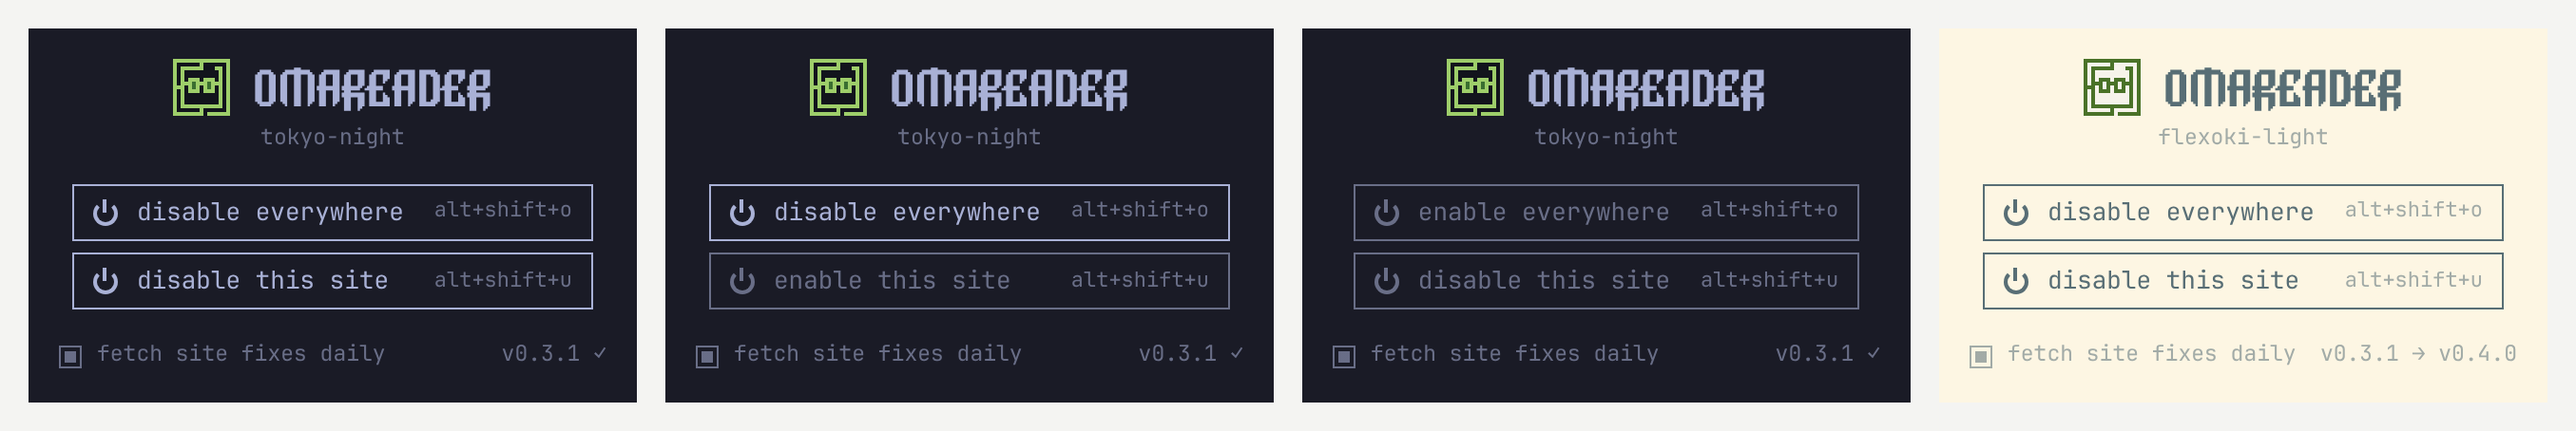
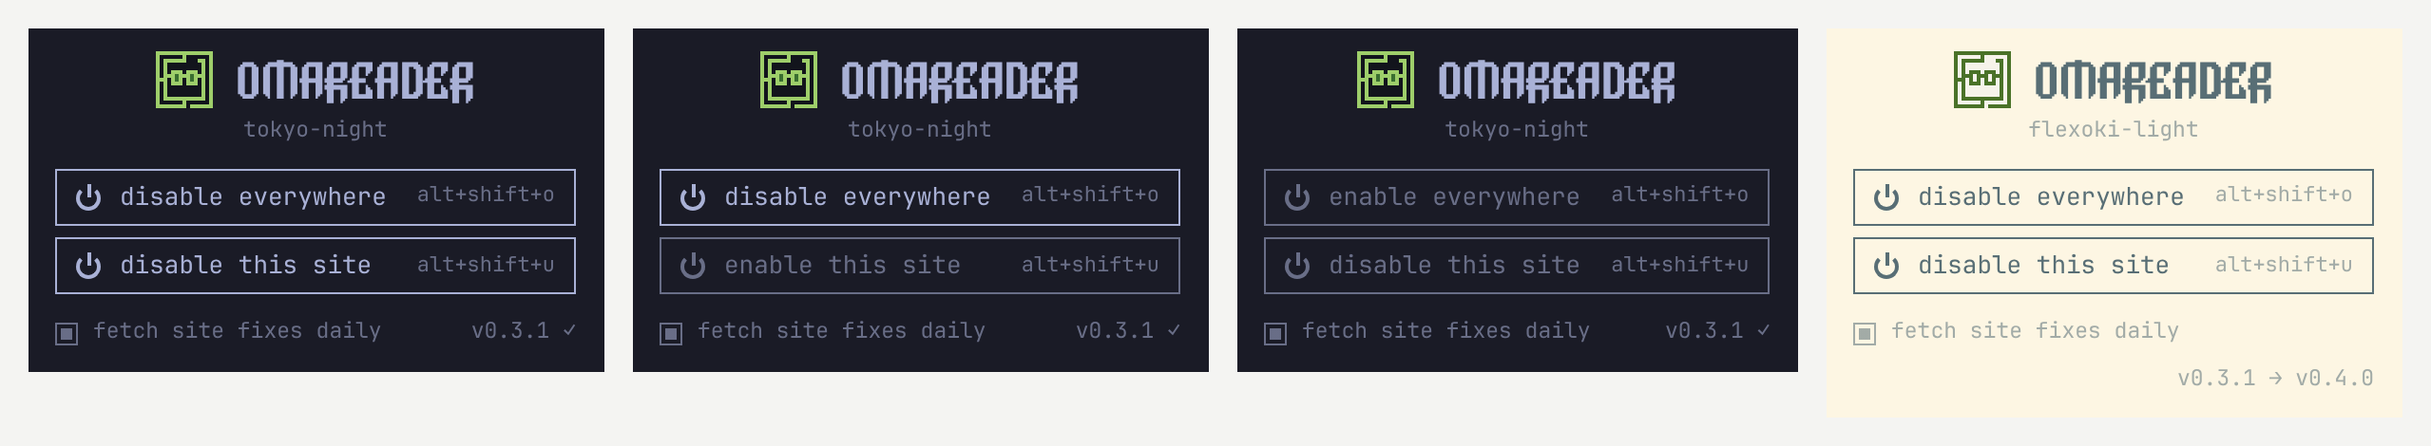
Fit the popup to its wordmark and switches
The popup was a fixed 320px wide. It is now as wide as the wordmark or the
switches, whichever is wider. The theme name, notes and footer wrap
inside that width instead of widening it.

Claude-Session: https://claude.ai/code/session_01Q7brkdmCBZxTJnumhn183x

diff --git a/src/popup.css b/src/popup.css
@@ -34,10 +34,12 @@ body {
 body {
   display: flex;
   flex-direction: column;
-  gap: calc(var(--s) * 2);
-  width: 320px;
+  gap: 12px;
+  /* The popup is as wide as the wordmark or the switches, whichever is wider. */
+  width: max-content;
+  min-width: 220px;
   margin: 0;
-  padding: calc(var(--s) * 2);
+  padding: 12px 14px;
 }
 
 h1,
@@ -82,6 +84,7 @@ footer {
 }
 
 #theme {
+  text-align: center;
   max-width: 100%;
   overflow: hidden;
   text-overflow: ellipsis;
@@ -92,11 +95,10 @@ footer {
   overflow-wrap: anywhere;
 }
 
-/* The switches fit their words, both as wide as the longer one, centered. */
+/* Both switches are as wide as the longer one's words. */
 main {
   display: grid;
-  grid-template-columns: max-content;
-  justify-content: center;
+  grid-template-columns: minmax(0, 1fr);
   gap: 6px;
 }
 
@@ -176,8 +178,19 @@ button:focus-visible,
   padding: 6px var(--s);
 }
 
+/* The theme name, notes and footer wrap instead of widening the popup. */
+#theme,
+#status,
+#dark-reader,
+footer {
+  width: 0;
+  min-width: 100%;
+}
+
 footer {
   display: flex;
+  flex-wrap: wrap;
+  row-gap: 4px;
   align-items: center;
   justify-content: space-between;
   gap: var(--s);
@@ -207,6 +220,7 @@ footer {
 
 #update {
   min-width: 0;
+  margin-left: auto;
   overflow: hidden;
   text-overflow: ellipsis;
   white-space: nowrap;
